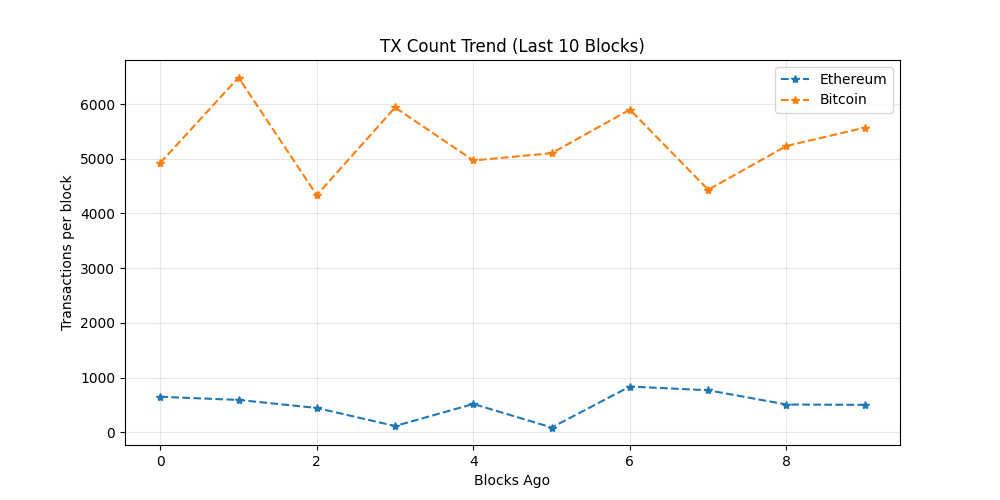
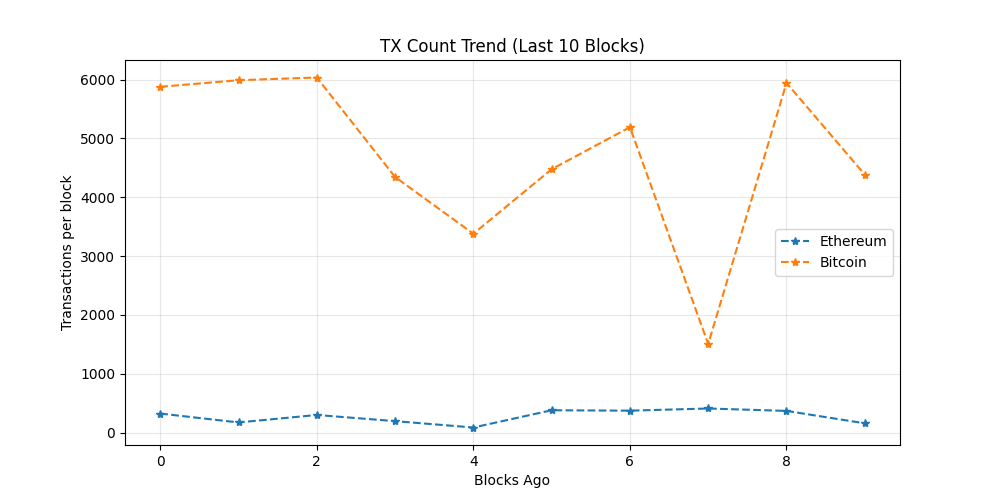
chore: update on-chain dashboard

diff --git a/README.md b/README.md
@@ -19,7 +19,7 @@ The README itself acts as the dashboard and is regenerated automatically on a 6 
 demonstrating a production-style, infrastructure-focused observability workflow rather
 than a traditional UI-driven approach.
 
-_Last updated: 2026-08-13 02:45 UTC_
+_Last updated: 2026-08-13 13:45 UTC_
 
 ## API Usage (GetBlock.io)
 - Calls used: **24**
@@ -27,8 +27,8 @@ _Last updated: 2026-08-13 02:45 UTC_
 ## Network Metrics
 | Chain | Block Height | TX Count | TPS (10 blk avg) | Block Util | Avg Fee |
 |------|-------------|----------|------------------|------------|---------|
-| Ethereum | 25743191 | 501 | 41.75 | 65.7% | 0.1 Gwei |
-| Bitcoin | 962221 | 5568 | 17.9 | 99.8% | N/A |
+| Ethereum | 25746480 | 156 | 13.0 | 27.43% | 0.1 Gwei |
+| Bitcoin | 962293 | 4384 | 1.63 | 99.79% | N/A |
 
 ## Visuals
 ### Transactions Trend
@@ -43,11 +43,11 @@ _Last updated: 2026-08-13 02:45 UTC_
 ## Whale Alerts (latest block)
 - Transaction hashes are truncated for readability.
 - Full hashes are available in `dashboards/metrics.json`
-- Bitcoin | 105.28 BTC | `c05346628529…`
-- Bitcoin | 140.38 BTC | `ce52dfbf83de…`
-- Bitcoin | 100.14 BTC | `d0c10a2f8cd4…`
-- Bitcoin | 2458.76 BTC | `1156ca5f5b2c…`
-- Bitcoin | 1037.73 BTC | `a4ada86acc40…`
+- Bitcoin | 289.34 BTC | `a05f647e3eb9…`
+- Bitcoin | 133.23 BTC | `20c67d442689…`
+- Bitcoin | 179.1 BTC | `52974e906450…`
+- Bitcoin | 611.98 BTC | `6aef434f20b3…`
+- Bitcoin | 1282.61 BTC | `8170ee7ce58a…`
 
 ## Run locally
 
